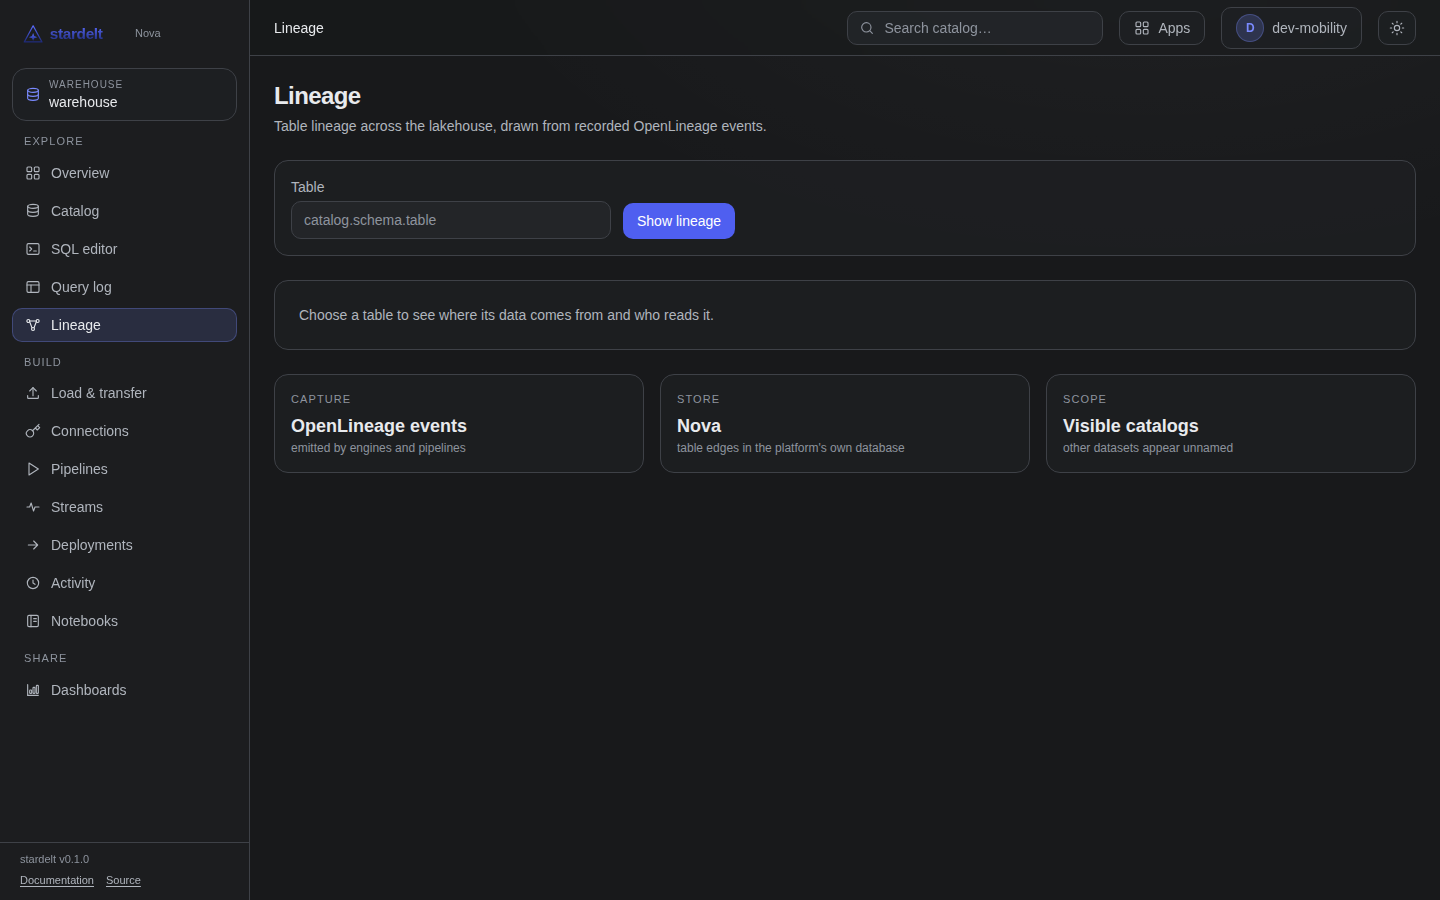
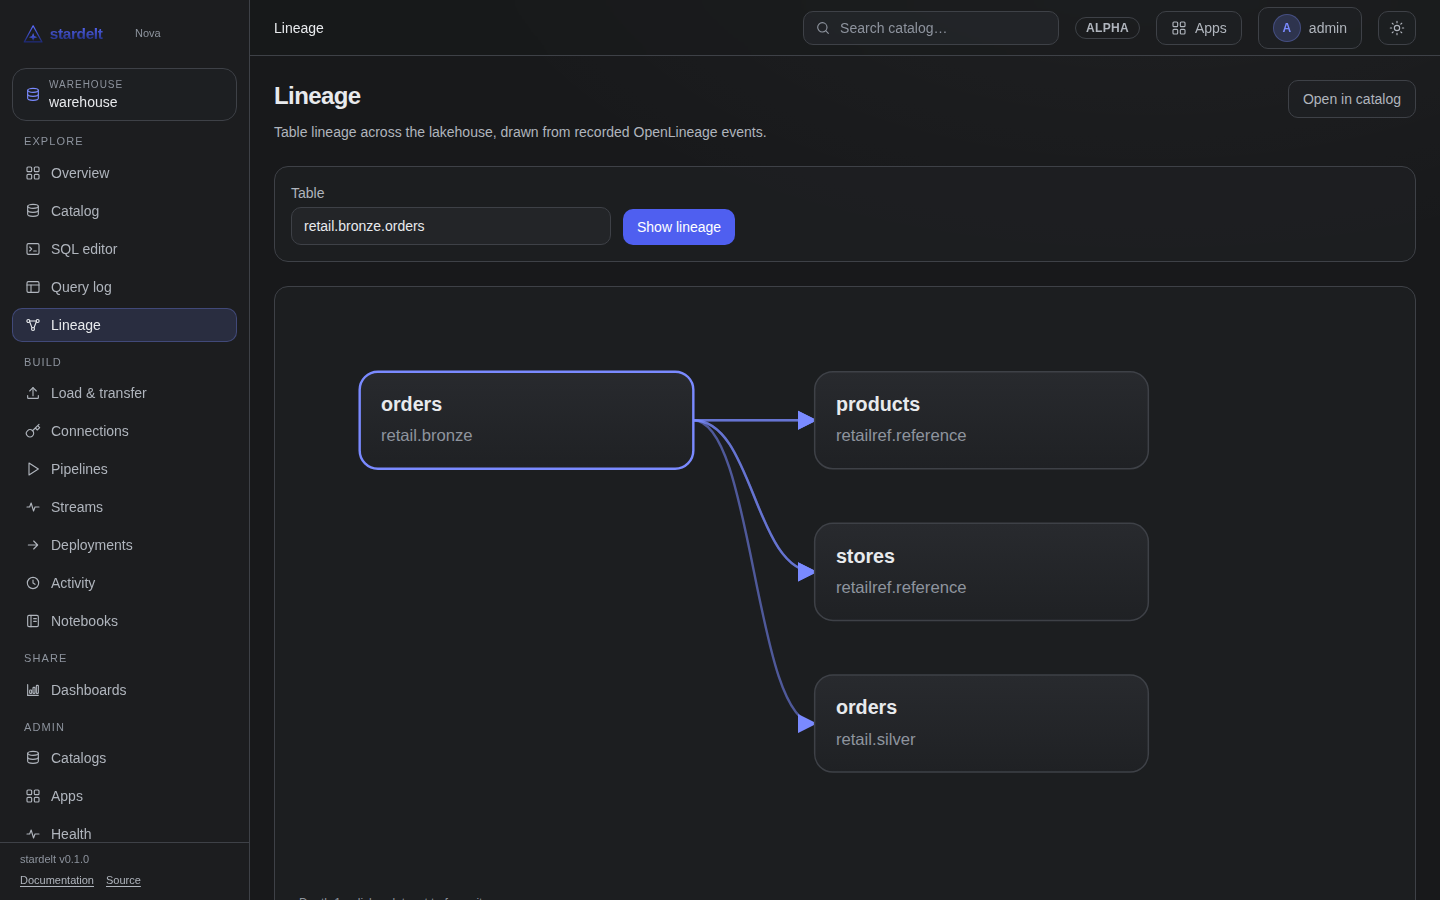
fix(site): the lineage screenshot shows a real graph
The capture navigated to /lineage without a selection, so every run saved the
empty-state picker. Select retail.bronze.orders at depth 1 in the URL, refuse to
write the shot when the page shows no graph, and fix the alt text that promised
a mobility chain.

diff --git a/src/pages/index.tsx b/src/pages/index.tsx
@@ -268,7 +268,7 @@ spec:
     title: 'Trace',
     body: 'Lineage is recorded by every run, with no extra setup.',
     img: '/img/nova/lineage.png',
-    alt: 'Nova lineage view showing how mobility tables flow from bronze to downstream tables.',
+    alt: 'Nova lineage view: a table with its upstream and downstream tables from recorded runs.',
     code: {lang: 'bash', text: 'stardelt run stardelt mobility-medallion --wait'},
     behind: ['Nova lineage', 'pipeline runs'],
     why: 'When a number looks wrong, you can see which run wrote it and from which source.',
